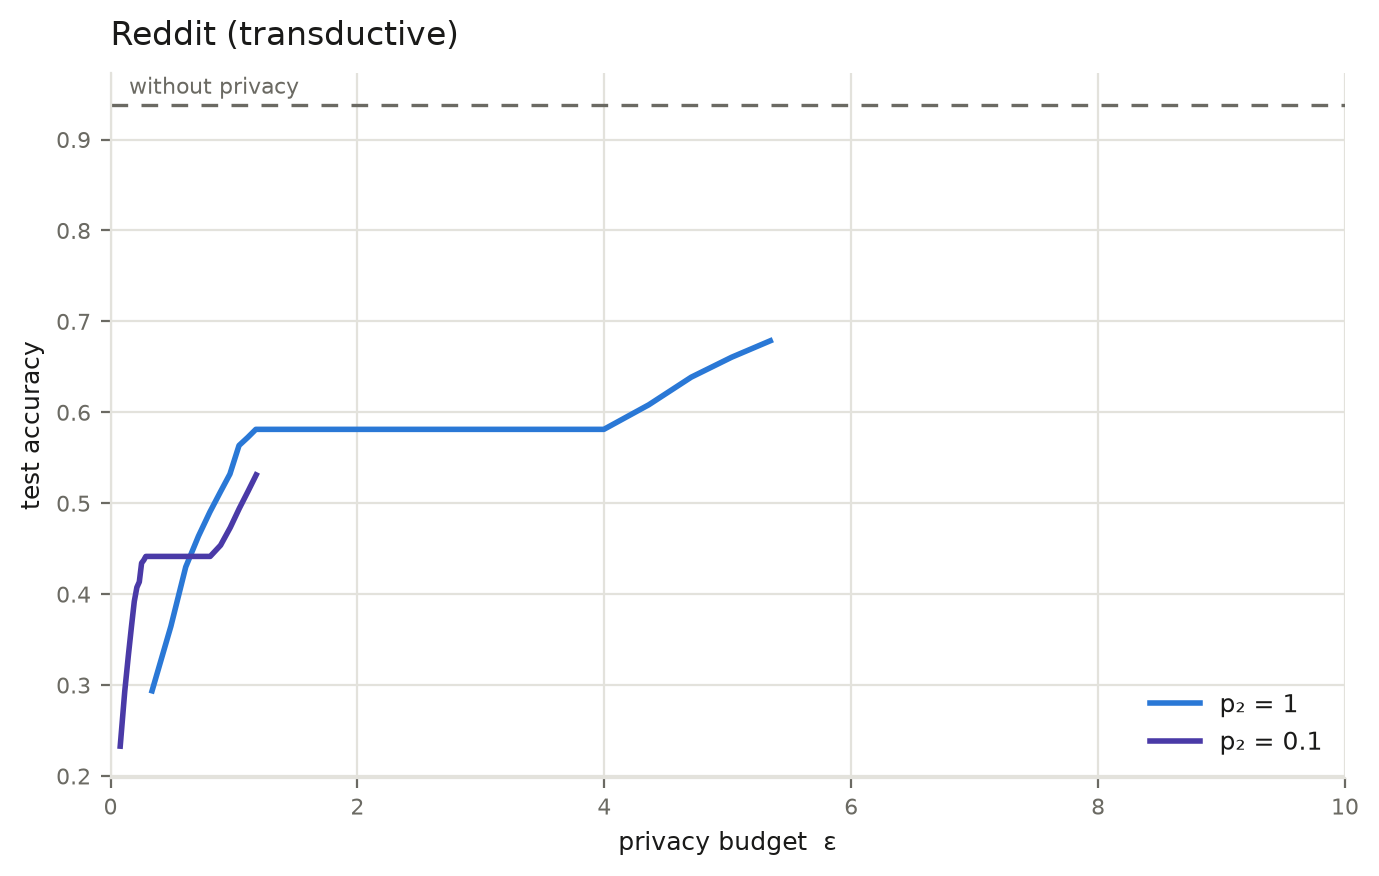
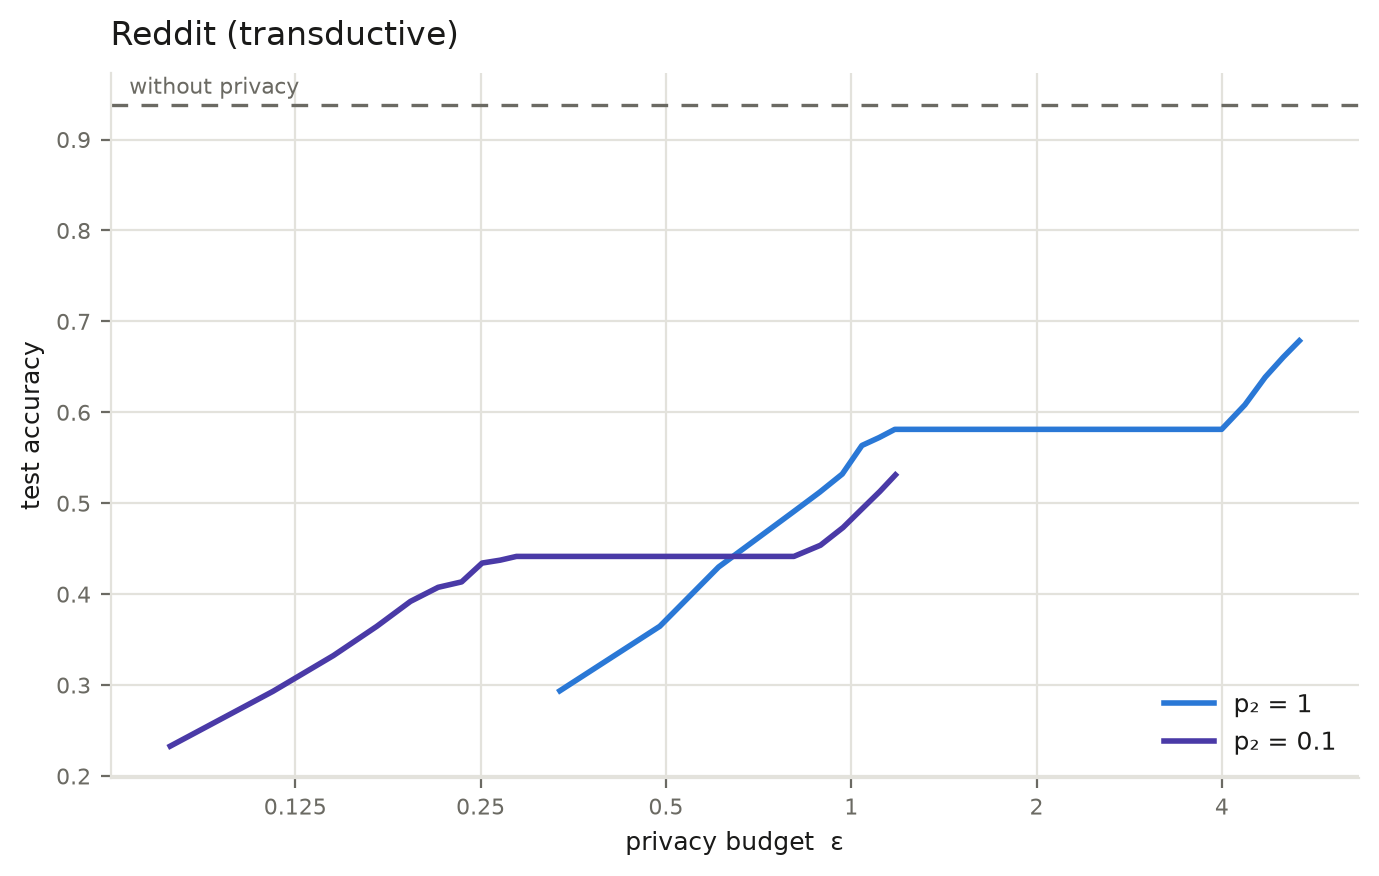
Log2 x-axis with power-of-2 ticks (ProGAP style: 0.5, 1, 2, 4, 8, 16, 32)
Uniform doubling spacing across all figures, matching ProGAP's epsilon axis;
shows the full data range instead of the linear 0-10 window that clipped the
high-eps tails.  Also drop the leftover caption on the PPI frontier plot.

diff --git a/scripts/plot_ppi_frontier.py b/scripts/plot_ppi_frontier.py
@@ -19,7 +19,7 @@ from collections import defaultdict
 import matplotlib
 matplotlib.use('Agg')
 import matplotlib.pyplot as plt   # noqa: E402
-from matplotlib.ticker import (FixedFormatter, FixedLocator,   # noqa: E402
+from matplotlib.ticker import (FixedFormatter, FixedLocator, NullLocator,  # noqa: E402
                                NullFormatter)
 
 # Categorical slots 1 and 7 of the validated palette (CVD-checked pair).
@@ -100,8 +100,13 @@ def main():
                     textcoords='offset points', xytext=(0, -11),
                     color=MUTED, fontsize=8)
 
-        ax.set_xlim(0, 10)
-        ax.set_xticks([0, 2, 4, 6, 8, 10])
+        ax.set_xscale('log', base=2)
+        ax.set_xlim(lo_x * 0.8, hi_x * 1.25)
+        _t = [t for t in (0.0625, 0.125, 0.25, 0.5, 1, 2, 4, 8, 16, 32, 64)
+              if lo_x * 0.7 <= t <= hi_x * 1.4]
+        ax.xaxis.set_major_locator(FixedLocator(_t))
+        ax.xaxis.set_major_formatter(FixedFormatter([f'{v:g}' for v in _t]))
+        ax.xaxis.set_minor_locator(NullLocator())
         ax.set_ylim(*ref['ylim'])
         ax.set_xlabel('privacy budget  ε   (δ = 10⁻⁶)', fontsize=9, color=INK)
         ax.set_title(ref['title'], fontsize=11, color=INK, loc='left', pad=8)
@@ -118,10 +123,6 @@ def main():
                        labelcolor=INK)
     fig.suptitle('PPI: privacy–utility frontier (p₂=0.1, r=1, L=2, K=5)',
                  fontsize=12, color=INK, x=0.02, ha='left', y=0.99)
-    fig.text(0.02, 0.005,
-             'each point is one tracked checkpoint of a single run; ε(t) is the '
-             'guarantee for the iterate released at step t',
-             fontsize=8, color=MUTED)
     fig.tight_layout(rect=(0, 0.03, 1, 0.96))
     os.makedirs(os.path.dirname(args.out), exist_ok=True)
     fig.savefig(args.out, dpi=200, bbox_inches='tight', facecolor='white')

diff --git a/scripts/plot_frontier.py b/scripts/plot_frontier.py
@@ -26,6 +26,20 @@ from matplotlib.ticker import (FixedFormatter, FixedLocator,   # noqa: E402
 P2_COLORS = {1.0: '#2a78d6', 0.5: '#eb6834', 0.25: '#1baf7a', 0.1: '#4a3aa7'}
 INK, MUTED, GRID = '#1a1a19', '#6b6a63', '#e3e2dc'
 
+_POW2 = [0.0625, 0.125, 0.25, 0.5, 1, 2, 4, 8, 16, 32, 64, 128, 256]
+
+
+def _log2_axis(ax, lo, hi):
+    """Log base-2 x-axis with power-of-2 ticks (ProGAP style: 2,4,8,16,32)."""
+    from matplotlib.ticker import (FixedLocator, FixedFormatter,
+                                   NullLocator)
+    ax.set_xscale('log', base=2)
+    ax.set_xlim(lo * 0.8, hi * 1.25)
+    ticks = [t for t in _POW2 if lo * 0.7 <= t <= hi * 1.4]
+    ax.xaxis.set_major_locator(FixedLocator(ticks))
+    ax.xaxis.set_major_formatter(FixedFormatter([f'{t:g}' for t in ticks]))
+    ax.xaxis.set_minor_locator(NullLocator())
+
 
 def load_curves(pattern, metric):
     per_p2 = defaultdict(list)
@@ -86,8 +100,8 @@ def main():
                     textcoords='offset points', xytext=(0, dy),
                     color=MUTED, fontsize=8)
 
-    ax.set_xlim(0, 10)
-    ax.set_xticks([0, 2, 4, 6, 8, 10])
+    allx = [e for pts in curves.values() for e, _ in pts]
+    _log2_axis(ax, min(allx), max(allx))
     ax.set_xlabel('privacy budget  ε', fontsize=9, color=INK)
     ax.set_ylabel(a.ylabel, fontsize=9, color=INK)
     if a.title:

diff --git a/scripts/plot_ppi_pareto.py b/scripts/plot_ppi_pareto.py
@@ -19,7 +19,7 @@ from collections import defaultdict
 import matplotlib
 matplotlib.use('Agg')
 import matplotlib.pyplot as plt   # noqa: E402
-from matplotlib.ticker import (FixedFormatter, FixedLocator,   # noqa: E402
+from matplotlib.ticker import (FixedFormatter, FixedLocator, NullLocator,  # noqa: E402
                                NullFormatter)
 
 # Validated categorical slots 1, 2, 3, 7.
@@ -100,8 +100,15 @@ def main():
                 xycoords=('axes fraction', 'data'), textcoords='offset points',
                 xytext=(0, -11), color=MUTED, fontsize=8)
 
-    ax.set_xlim(0, 10)
-    ax.set_xticks([0, 2, 4, 6, 8, 10])
+    ax.set_xscale('log', base=2)
+    _allx = [e for pts in curves.values() for e, _ in pts]
+    _lo, _hi = min(_allx), max(_allx)
+    ax.set_xlim(_lo * 0.8, _hi * 1.25)
+    _t = [t for t in (0.0625, 0.125, 0.25, 0.5, 1, 2, 4, 8, 16, 32, 64)
+          if _lo * 0.7 <= t <= _hi * 1.4]
+    ax.xaxis.set_major_locator(FixedLocator(_t))
+    ax.xaxis.set_major_formatter(FixedFormatter([f'{v:g}' for v in _t]))
+    ax.xaxis.set_minor_locator(NullLocator())
     ax.set_xlabel('privacy budget  ε   (δ = 10⁻⁶)', fontsize=9, color=INK)
     ax.set_ylabel(ref['label'], fontsize=9, color=INK)
     ax.set_title('PPI: privacy–utility tradeoff by sparsification level',
